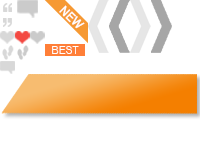
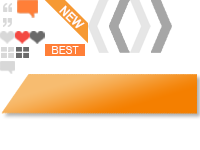
홈페이지 이동 수정

Changed region(s): [[0.06, 0.0, 0.21, 0.1333], [0.0, 0.2933, 0.15, 0.4], [0.15, 0.1867, 0.24, 0.2933]]

diff --git a/jtown/src/main/webapp/resources/css/home.css b/jtown/src/main/webapp/resources/css/home.css
@@ -37,6 +37,7 @@ word-wrap: break-word; /* Internet Explorer 5.5+ */}
 .jt-home-shop-content-fn>li>a,.jt-home-shop-content-fn>li>span{float: left; margin-right: 5px; font-weight: bold; color: #b2b2b2;}
 .jt-home-shop-view{ float: left; margin-left: 45px; width: 15px; height: 15px; background: url("../images/jt-home-icon.png") 0 -45px no-repeat; text-indent: -99999px;}
 .jt-home-shop-love{ float: left; margin-left: 15px; width: 15px; height: 15px; background: url("../images/jt-home-icon.png") 0 -30px no-repeat; text-indent: -99999px; }
+.jt-home-shop-love:HOVER{ background-position: -15px -30px;}
 .jt-home-shop-comment{ float: left; margin-left: 34px; width: 15px; height: 15px; background: url("../images/jt-home-icon.png") 0 -60px no-repeat; text-indent: -99999px;}
 
 .jt-home-shop-love-click{background: url("../images/jt-home-icon.png") -15px -30px no-repeat !important;}
@@ -91,8 +92,8 @@ word-wrap: break-word; /* Internet Explorer 5.5+ */}
 
 .jt-home-expand-shop-content-fn{ width: 100%; float:left; font-size: 12px; border-top: 1px solid #d1cdcd; height: 40px;}
 .jt-home-expand-shop-content-fn>li{ float: left; width: 33%; font-weight: bold; }
-.jt-home-expand-shop-content-view-wrap{ font-size: 13px; color: #cdcdcd; padding-top: 14px;}
-.jt-home-expand-shop-content-comment-wrap{ font-size: 16px; color: #cdcdcd; margin-top: 5px; padding: 7px 0 11px 0; border-top: 1px solid #d6d2d2; border-left: 1px solid #d6d2d2; border-right: 1px solid #d6d2d2;
+.jt-home-expand-shop-content-view-wrap{ font-size: 13px; color: #6a6a6a; padding-top: 14px;}
+.jt-home-expand-shop-content-comment-wrap{ font-size: 16px; color: #ff7f38; margin-top: 5px; padding: 7px 0 11px 0; border-top: 1px solid #d6d2d2; border-left: 1px solid #d6d2d2; border-right: 1px solid #d6d2d2;
 	background: #fff;
  	-webkit-border-radius: 3px 3px 0 0;
     -moz-border-radius: 3px 3px 0 0;
@@ -101,13 +102,12 @@ word-wrap: break-word; /* Internet Explorer 5.5+ */}
 	-moz-box-shadow : 0 1px 3px rgba(34,25,25,0.4);
 	-webkit-box-shadow : 0 1px 3px rgba(34,25,25,0.4);
 }
+.jt-home-expand-shop-content-love-wrap{ font-size: 13px; color: #6a6a6a; padding-top: 14px;}
 .jt-home-expand-shop-border-hide{width: 205px;height: 3px;position: absolute;margin-top: 9px;background: #fff; }
-.jt-home-expand-shop-content-love-wrap{ font-size: 13px; color: #cdcdcd; padding-top: 14px;}
 .jt-home-expand-shop-content-view{ float: left; margin-left: 105px; width: 15px; height: 15px; background: url("../images/jt-home-icon.png") -15px -45px no-repeat; text-indent: -99999px;}
 .jt-home-expand-shop-content-comment{ float: left; margin: 0 10px 0 30px; width: 25px; height: 18px; background: url("../images/jt-home-icon.png") -15px 0px no-repeat; text-indent: -99999px;}
 .jt-home-expand-shop-content-love{ float: left;  margin-left: 65px; width: 15px; height: 15px; background: url("../images/jt-home-icon.png") -30px -30px no-repeat; text-indent: -99999px;}
-.jt-home-expand-shop-content-love-wrap>a, .jt-home-expand-shop-content-love-wrap:VISITED{color: #696969;}
-.jt-home-expand-shop-content-love-wrap>a:HOVER{ color: #ff5b00; }
+.jt-home-expand-shop-content-love:HOVER{background-position: -15px -30px;}
 .jt-home-expand-shop-content-love-hover{ float: left;  width: 15px; height: 15px; background: url("../images/jt-home-icon.png") -15px -30px no-repeat; text-indent: -99999px;}
 
 .jt-home-expand-shop-comment-wrap{float: left; font-size: 12px; font-family: Dotum;  border: 1px solid #cdcdcd;

diff --git a/jtown/src/main/webapp/resources/js/expand.js b/jtown/src/main/webapp/resources/js/expand.js
@@ -37,7 +37,8 @@ jtown.expand.makeInnerHtml = function(spn){
 			commentTops = selectMap.commentTops,
 			commentFilter = selectMap.commentFilter,
 			cpn = selectMap.cpn,
-			best = false;
+			best = false,
+			loveHave = selectMap.loveHave;
 		
 		var productSize = Number(products.length);
 		var bigProductHtml = '';
@@ -154,12 +155,12 @@ jtown.expand.makeInnerHtml = function(spn){
 		newEventHtml += '			</div>';
 		newEventHtml += '		</div>';
 		
-		var loveClick = selectMap.loveHave != 0 ? 'jt-home-shop-love-click' : '';
-		var loveTextClick =  selectMap.loveHave != 0 ? 'jt-home-shop-love-text-click' : '';
+		var loveClick = (!nullValueCheck(loveHave) && loveHave != 0 ) ? 'jt-home-shop-love-click' : '';
+		var loveTextClick =   (!nullValueCheck(loveHave) && loveHave != 0) ? 'jt-home-shop-love-text-click' : '';
 		
 		html += '<header class="jt-home-expand-click-shop-header">';
 		html += '	<div>';
-		html += '		<a href="#none" onclick="window.open(\'http://'+htmlChars(jtownUser.shopUrl)+'\');">'+htmlChars(jtownUser.name)+'</a>';
+		html += '		<a href="http://'+jtownUser.shopUrl+'" target="_blank" onclick="jtown.home.clickShop(\''+spn+'\');">'+htmlChars(jtownUser.name)+'</a>';
 		html += '	</div>';	
 		html += '</header>';
 		html += '<div class="jt-home-expand-shop jt-home-expand-click-shop" id="jt-home-expand-shop" data-size="'+productSize+'" data-nowPosition="'+(Number(productSize) - 1)+'" data-spn="'+jtownUser.pn+'" >';
@@ -193,7 +194,7 @@ jtown.expand.makeInnerHtml = function(spn){
 		html +=	'	</div>';	
 		html += '	<ul class="jt-home-expand-shop-content-fn">';
 		html +=	'		<li class="jt-home-expand-shop-content-view-wrap">';
-		html +=	'			<span class="jt-home-expand-shop-content-view">Look</span>&nbsp;<span id="view-expand-'+spn+'"/>'+jtownUser.viewCount+'</span>';	
+		html +=	'			<span class="jt-home-expand-shop-content-view">Look</span>&nbsp;<span id="view-expand-'+spn+'">'+jtownUser.viewCount+'</span>';	
 		html +=	'		</li>';
 		html +=	'		<li class="jt-home-expand-shop-content-comment-wrap">';
 		html +=	'			<span class="jt-home-expand-shop-content-comment"></span>&nbsp;Comment&nbsp;&nbsp;<span id="comment-expand-'+spn+'">' + jtownUser.commentCount+'</span>';

diff --git a/jtown/src/main/webapp/resources/js/jtown.js b/jtown/src/main/webapp/resources/js/jtown.js
@@ -176,13 +176,6 @@ jtown.header.syncNavMove = function(){
 		}
 	});
 	
-//	$('.jt-header-nav-all').children('li').unbind('click');
-//	$('.jt-header-nav-all').children('li').bind('click', function(){
-//		var left = Number($(this).position().left) - 1;
-//		$('.jt-header-nav-all').animate({
-//			left : '-'+left+'px'
-//		}, 500);	
-//	});
 };
 
 jtown.header.syncNavInterest = function(){
@@ -219,12 +212,12 @@ if (typeof jtown.home == 'undefined') {
 	jtown.home = {};
 }
 
-jtown.home.clickShop = function(spn, href){
+jtown.home.clickShop = function(spn){
 	var url = contextPath + 'ajax/clickShop.jt',
 		json = {	'sellerPn' :	spn	};
 	
 	$.postJSON(url, json, function(){
-		window.open('http://'+href);			
+		
 	});
 };
 
@@ -275,7 +268,7 @@ jtown.home.html = function(data){
 		
 		html+='	<div class="jt-home-shop" id="jt-home-shop-'+spn+'">';
 		html+='		<header>';
-		html+='			<a href="#none" onclick="jtown.home.clickShop(\''+spn+'\', \''+htmlChars(seller.shopUrl)+'\')">'+htmlChars(seller.name)+'</a>';
+		html+='			<a href="http://'+seller.shopUrl+'" target="_blank" onclick="jtown.home.clickShop(\''+spn+'\')">'+htmlChars(seller.name)+'</a>';
 		html+='		</header>';
 		html+='		<div class="jt-home-shop-content">';
 		html+='			<ul class="jt-home-shop-content-image" data-spn="'+spn+'">';
